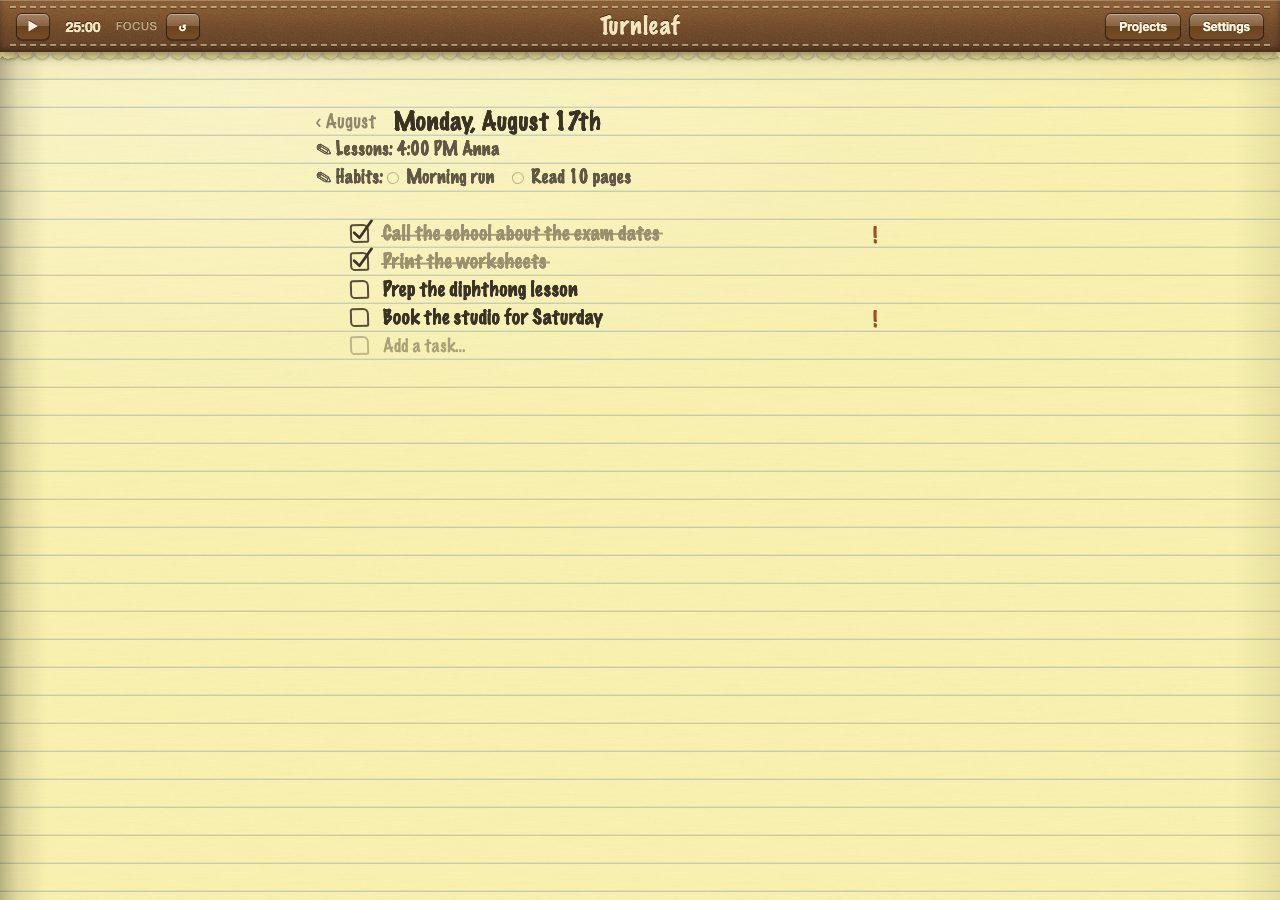
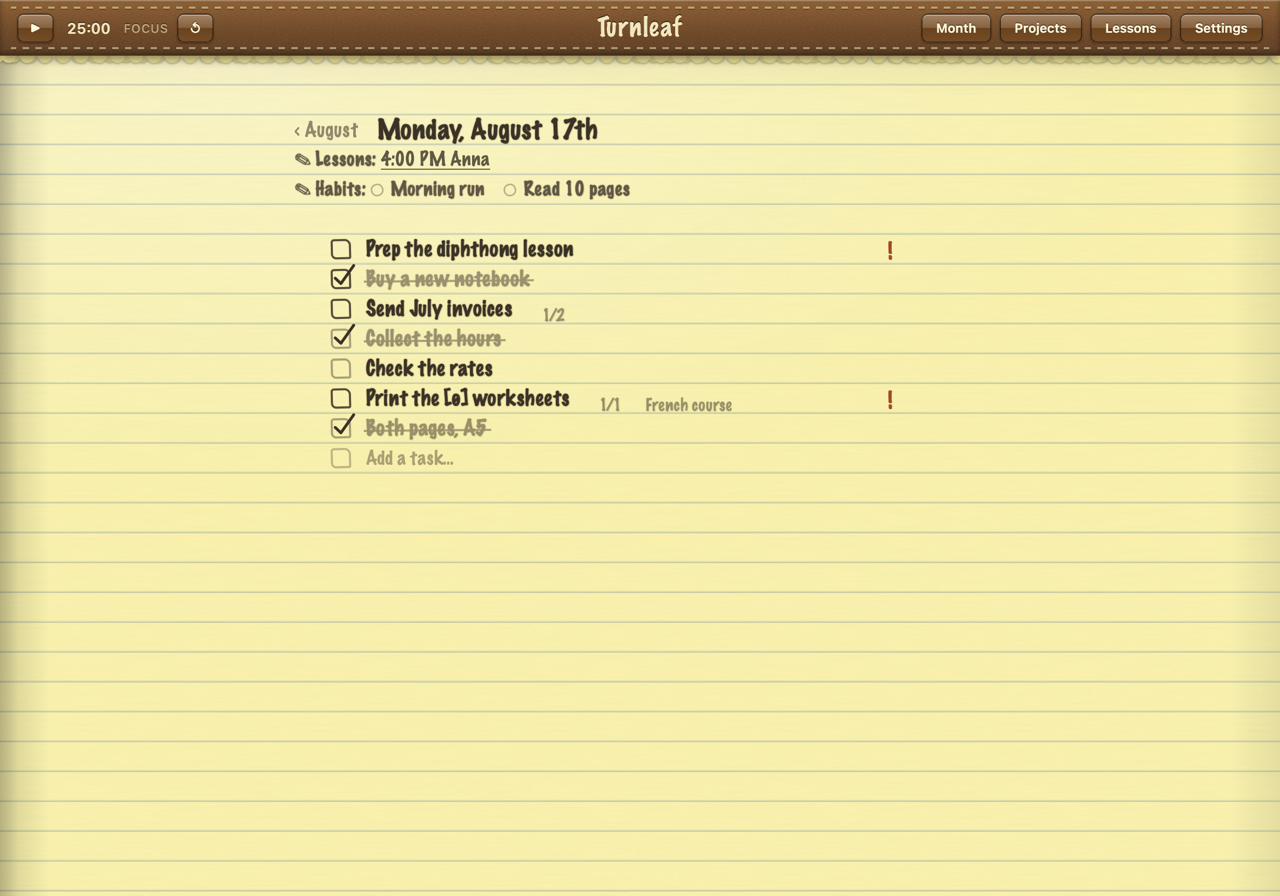
README: fresh 1.0.x screenshots and sections for the new pages
All six captures were rendered from the real frontend in an offscreen
WKWebView (the same engine the Tauri shell uses), seeded with sample data:
- month spread (weekday labels, habits table)
- day page (lesson links, subtasks, dated project task)
- projects page
- the new Lessons index
- a lesson plan page (checklist + notes)
- Settings → About with the wipe controls
Each shot was OCR-verified for content before committing.

diff --git a/README.md b/README.md
@@ -58,13 +58,13 @@ The main page mirrors a bullet-journal month spread:
 - Today is circled in ink
 - Click a date to turn the page — a real 3D page-flip — to that day's to-do list
 
-<p align="center"><img src="screenshot-month.png" width="820" alt="The month spread: a Dates column down the left, with Goals, Important, Projects, Birthdays and Lessons stacked on the right"></p>
+<p align="center"><img src="screenshot-month.png" width="820" alt="The month spread: a Dates column down the left, each day labelled with its weekday, with Goals, Important, Projects, Birthdays and Lessons stacked on the right, and the Habits tick table underneath"></p>
 
 ### 📄 Day pages
 
-Hand-drawn checkboxes, animated strikethroughs, and in-place editing on every row.
+Hand-drawn checkboxes, animated strikethroughs, and in-place editing on every row. The day's lessons (clickable through to their plans) and habits sit at the top.
 
-<p align="center"><img src="screenshot-day.png" width="820" alt="A day page: tasks with hand-drawn checkboxes, one carrying two subtasks and a 1/2 counter, another flagged important"></p>
+<p align="center"><img src="screenshot-day.png" width="820" alt="A day page: tasks with hand-drawn checkboxes, subtasks with a 1/2 counter, a flagged task, and the day's lessons and habits as bubbles at the top"></p>
 
 ### 🎂 Lessons & birthdays
 
@@ -79,6 +79,10 @@ The bar's **Lessons** button lists every weekly lesson and this month's one-offs
 - Weekly plans open on the next upcoming lesson and the `‹ ›` arrows step a week at a time; every week's plan is kept separately, so you can look back at what you actually did
 - On a day page, the lessons line links straight to that day's plan
 
+<p align="center"><img src="screenshot-lessons.png" width="820" alt="The Lessons page: the weekly timetable with clickable student names, this month's one-offs below, and an add row"></p>
+
+<p align="center"><img src="screenshot-plan.png" width="820" alt="A lesson plan page: the plan checklist with ticked items, the ‹ › week arrows, and the Notes box with homework"></p>
+
 ### 📁 Projects
 
 Folders of tasks that outlive any one month, on their own page:
@@ -87,7 +91,7 @@ Folders of tasks that outlive any one month, on their own page:
 - A dated task also appears on that day's page and on the spread, labelled with its project
 - It is still the one task: tick it on the day and the project agrees
 
-<p align="center"><img src="screenshot-projects.png" width="820" alt="The projects page: two projects with done counters, one task dated the 15th and flagged important, with two subtasks indented beneath it"></p>
+<p align="center"><img src="screenshot-projects.png" width="820" alt="The projects page: two projects with done counters, one task dated the 17th and flagged important, with a subtask indented beneath it"></p>
 
 ### ☑ Subtasks
 
@@ -120,6 +124,8 @@ A page of its own, from the bar:
 - **Clock** — `4:00 PM`, `16:00`, or follow whatever your computer does. Times are always *stored* as 24-hour, so the setting only changes how they read
 - Also holds the **timer lengths** and *About*, with the version and your backups
 - *About* also holds **Wipe data**: clear one shelf at a time — day tasks, goals, projects, lessons (with their plans), birthdays, habits (with their ticks) — or everything. Each wipe asks once, downloads a safety backup first, and leaves the rest of the book untouched
+
+<p align="center"><img src="screenshot-settings.png" width="820" alt="Settings, scrolled to About: the version, the Export and Import backups, and the Wipe data rows with per-section counts"></p>
 
 ## ⌨ Editing & shortcuts
 
